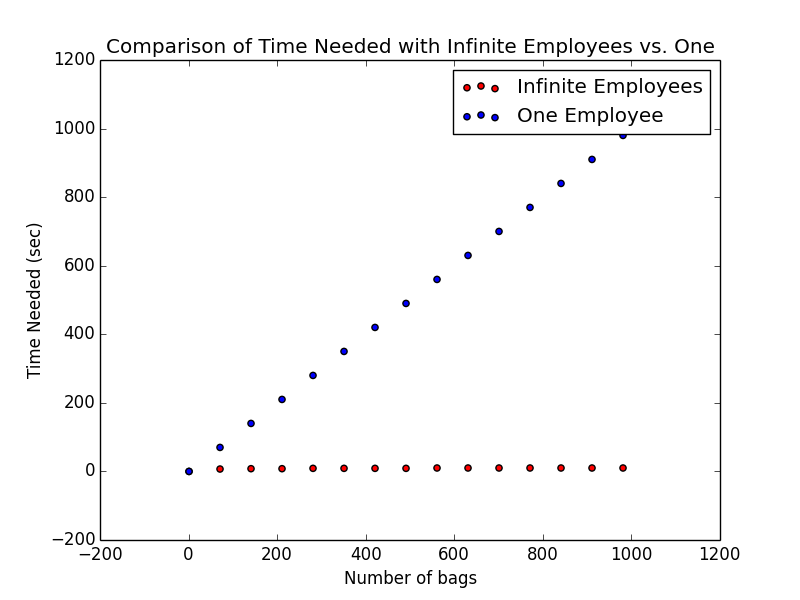
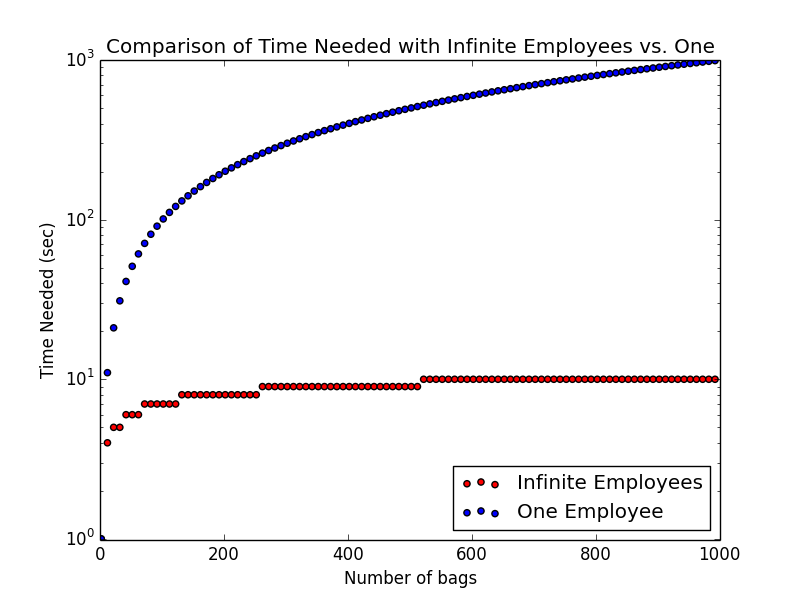
updated graph to log scale

diff --git a/HW0/P5/P5.py b/HW0/P5/P5.py
@@ -1,7 +1,7 @@
 import numpy as np
 import matplotlib.pyplot as plt
 # Get lots of values for N
-N = np.array(range(2, 1000, 70))
+N = np.array(range(2, 1000, 10))
 # Calculate the logs
 logs = np.ceil(np.log2(N))
 # Plot the figure
@@ -11,7 +11,8 @@ plt.scatter(N, N-1, c='blue', label='One Employee')
 plt.xlabel("Number of bags")
 plt.ylabel("Time Needed (sec)")
 plt.yscale('log')
+plt.axis([0, 1000, 0, 1000])
 plt.title("Comparison of Time Needed with Infinite Employees vs. One")
-plt.legend()
+plt.legend(loc='lower right')
 plt.show()
 
